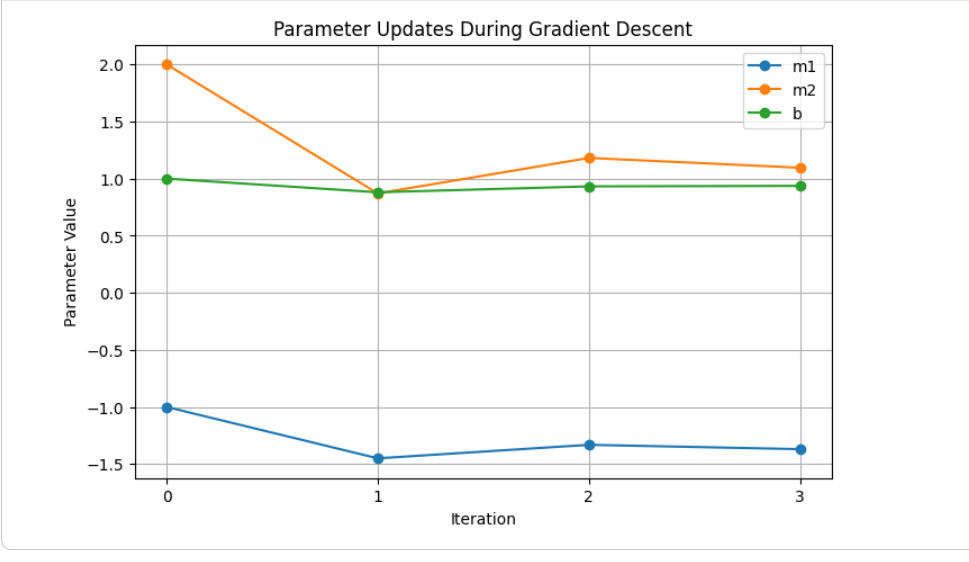
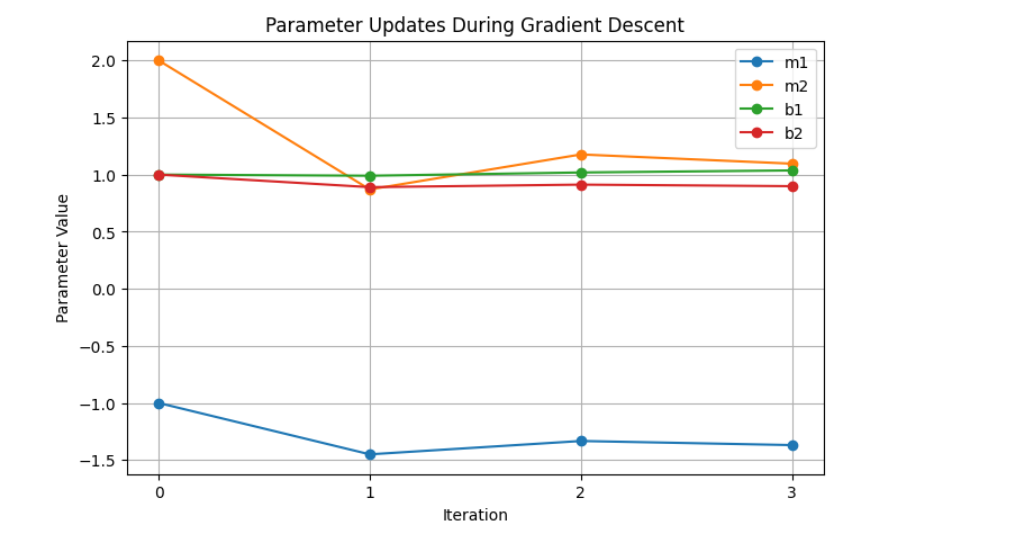
update to visualization and results explanation and notebook

diff --git a/README.md b/README.md
@@ -22,8 +22,7 @@ descent to optimize the model's weights and bias.
 - Used SciPy to approximate derivates and Matplotlib to visualize the results
 
 ## Results 
-The MSE decreased from 61.00 initially to 2.39 after three updates,
-indicating an improvement in the model's predictions
+We implemented gradient descent to optimize the weights (m1, m2) and per-observation biases (b1, b2) of a linear regression model over three iterations. The MSE fell at every update, from 61.00 to 6.50, 2.50 and finally 2.16, so the parameters moved in a direction that reduces the error. The final values were m = [-1.37, 1.10] and b = [1.04, 0.90], giving predictions of [2.95, 6.38] against actual values of [5, 6]. The chain-rule gradients matched SciPy's numerical derivatives at each iteration.
 
 ## Visualizations
 | Visualization 1 | Visualization 2 |
